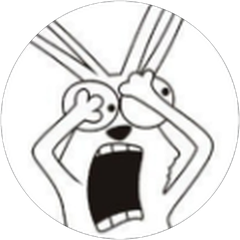
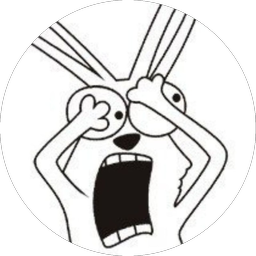
README: раздел «Автор» в едином оформлении
Claude-Session: https://claude.ai/code/session_01EvVifQ1hjxEWbXApfB1We8

diff --git a/README.md b/README.md
@@ -113,11 +113,11 @@ dart pub get && dart test
 
 ## Автор
 
-<img src="docs/author.png" width="120" height="120" align="left" alt="SMV">
+<img src="docs/author.png" alt="SMV" width="96" align="left">
 
-&nbsp;&nbsp;SMV<br>
-&nbsp;&nbsp;<a href="mailto:4007079@gmail.com">4007079@gmail.com</a><br>
-&nbsp;&nbsp;<a href="https://github.com/4007079-ship-it">github.com/4007079-ship-it</a>
+**SMV**<br>
+[4007079@gmail.com](mailto:4007079@gmail.com)<br>
+[github.com/4007079-ship-it](https://github.com/4007079-ship-it)
 
 <br clear="left">
 
